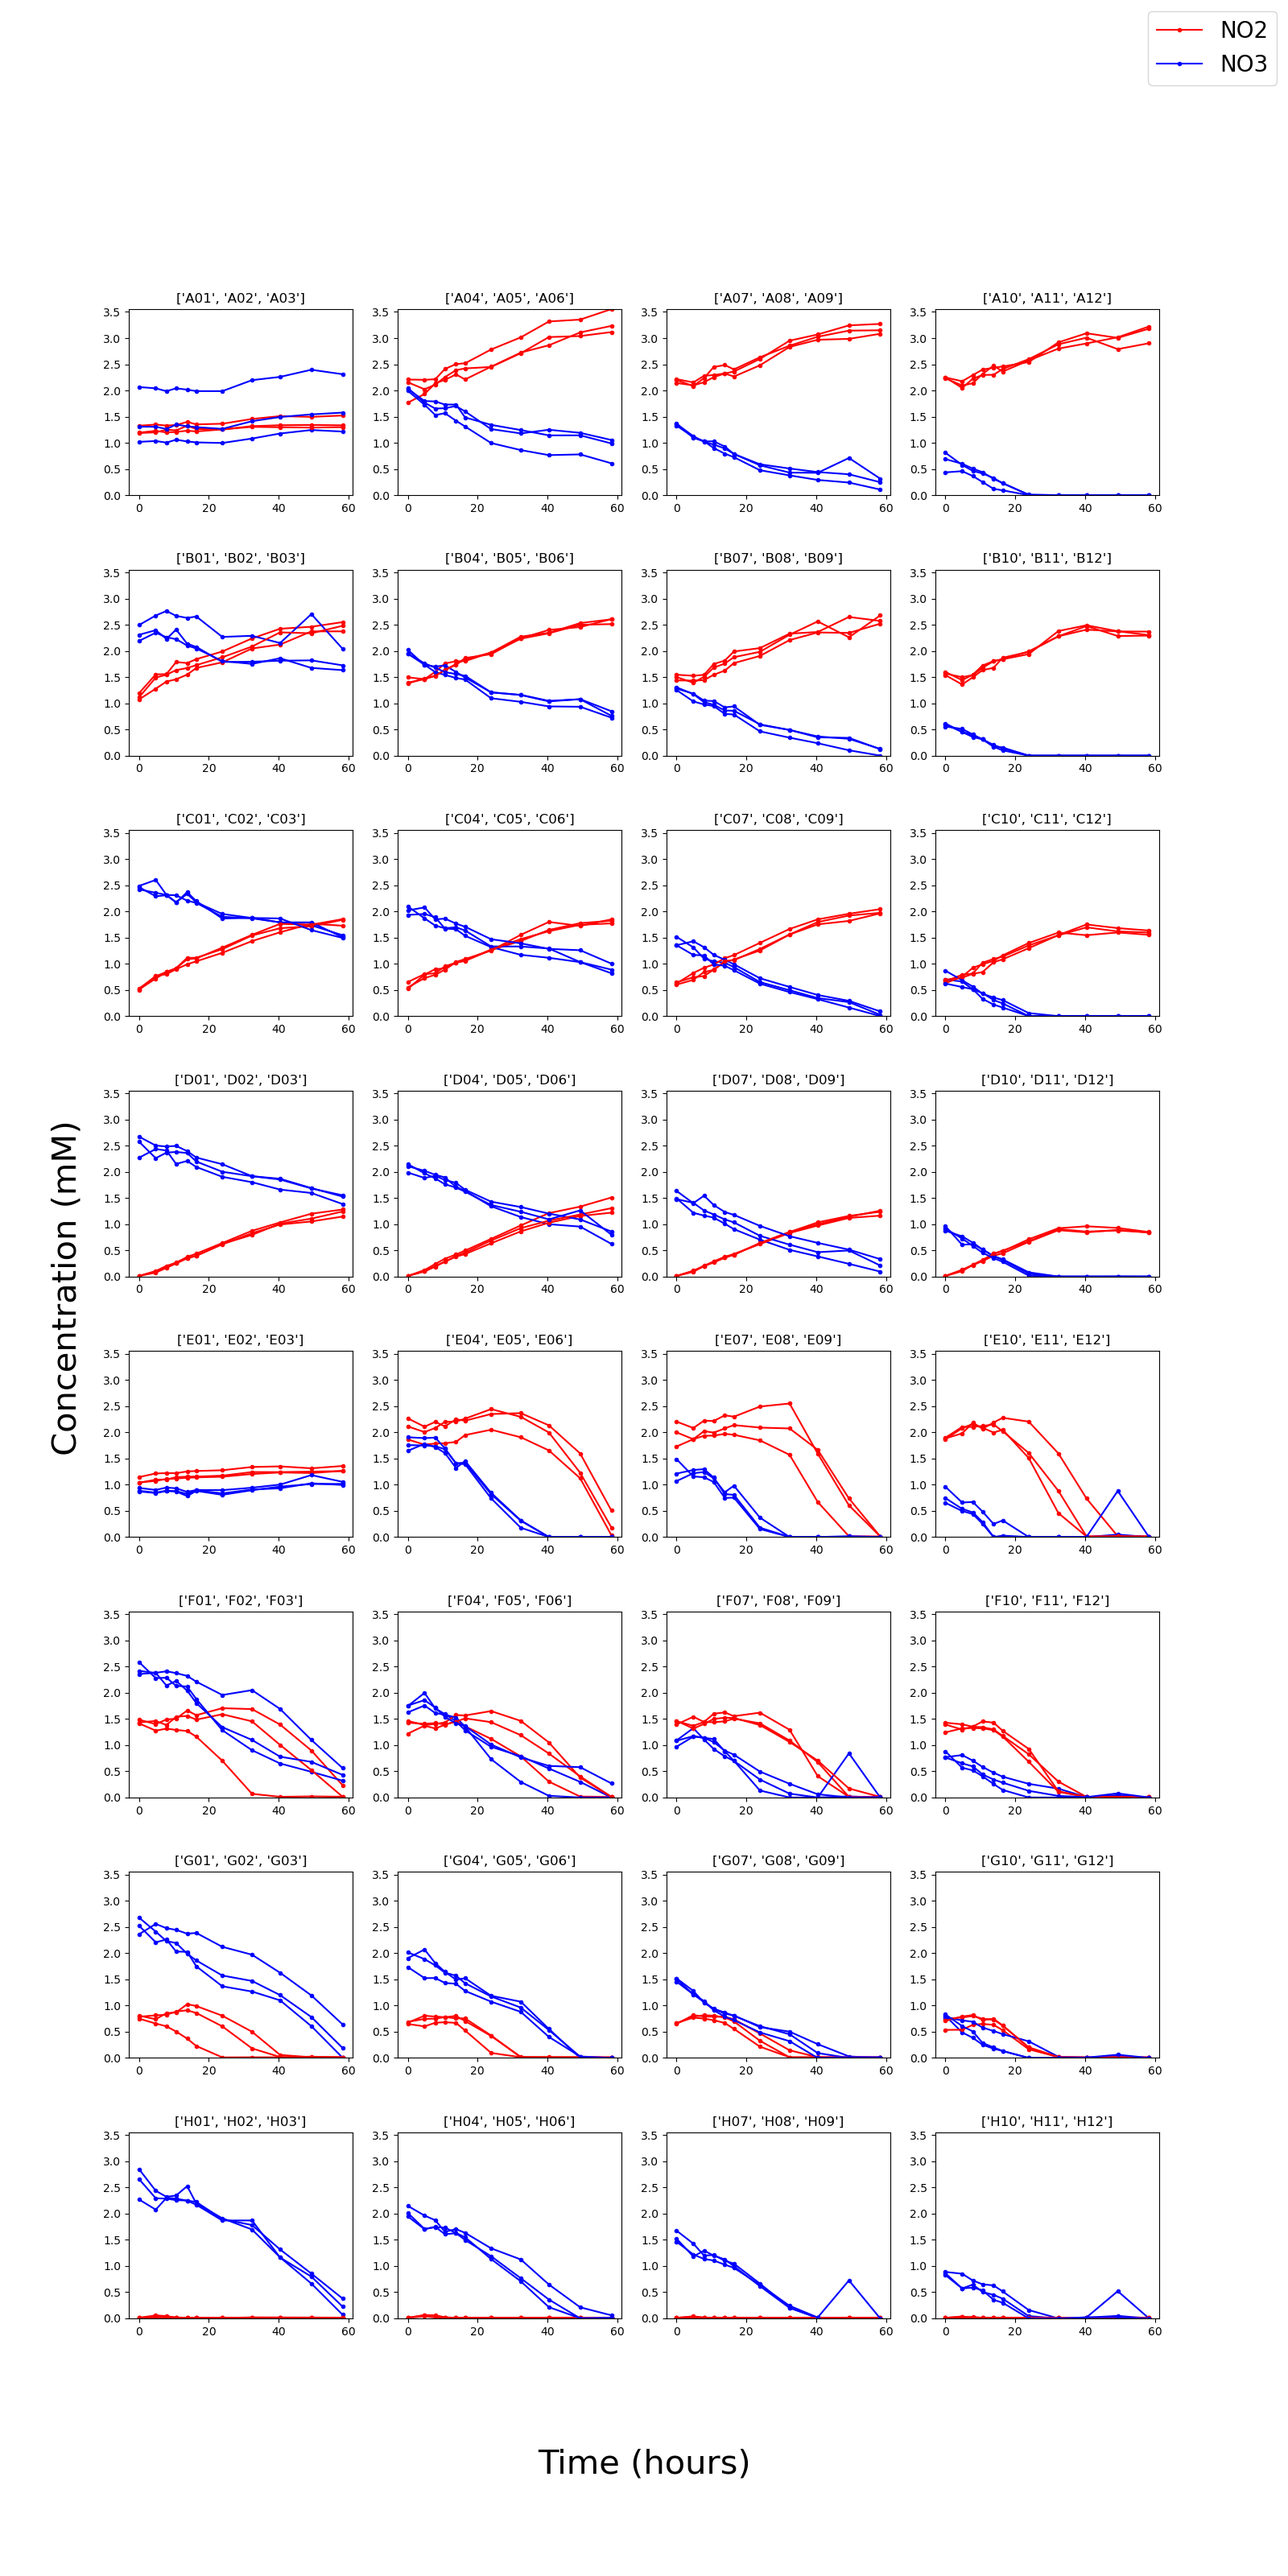
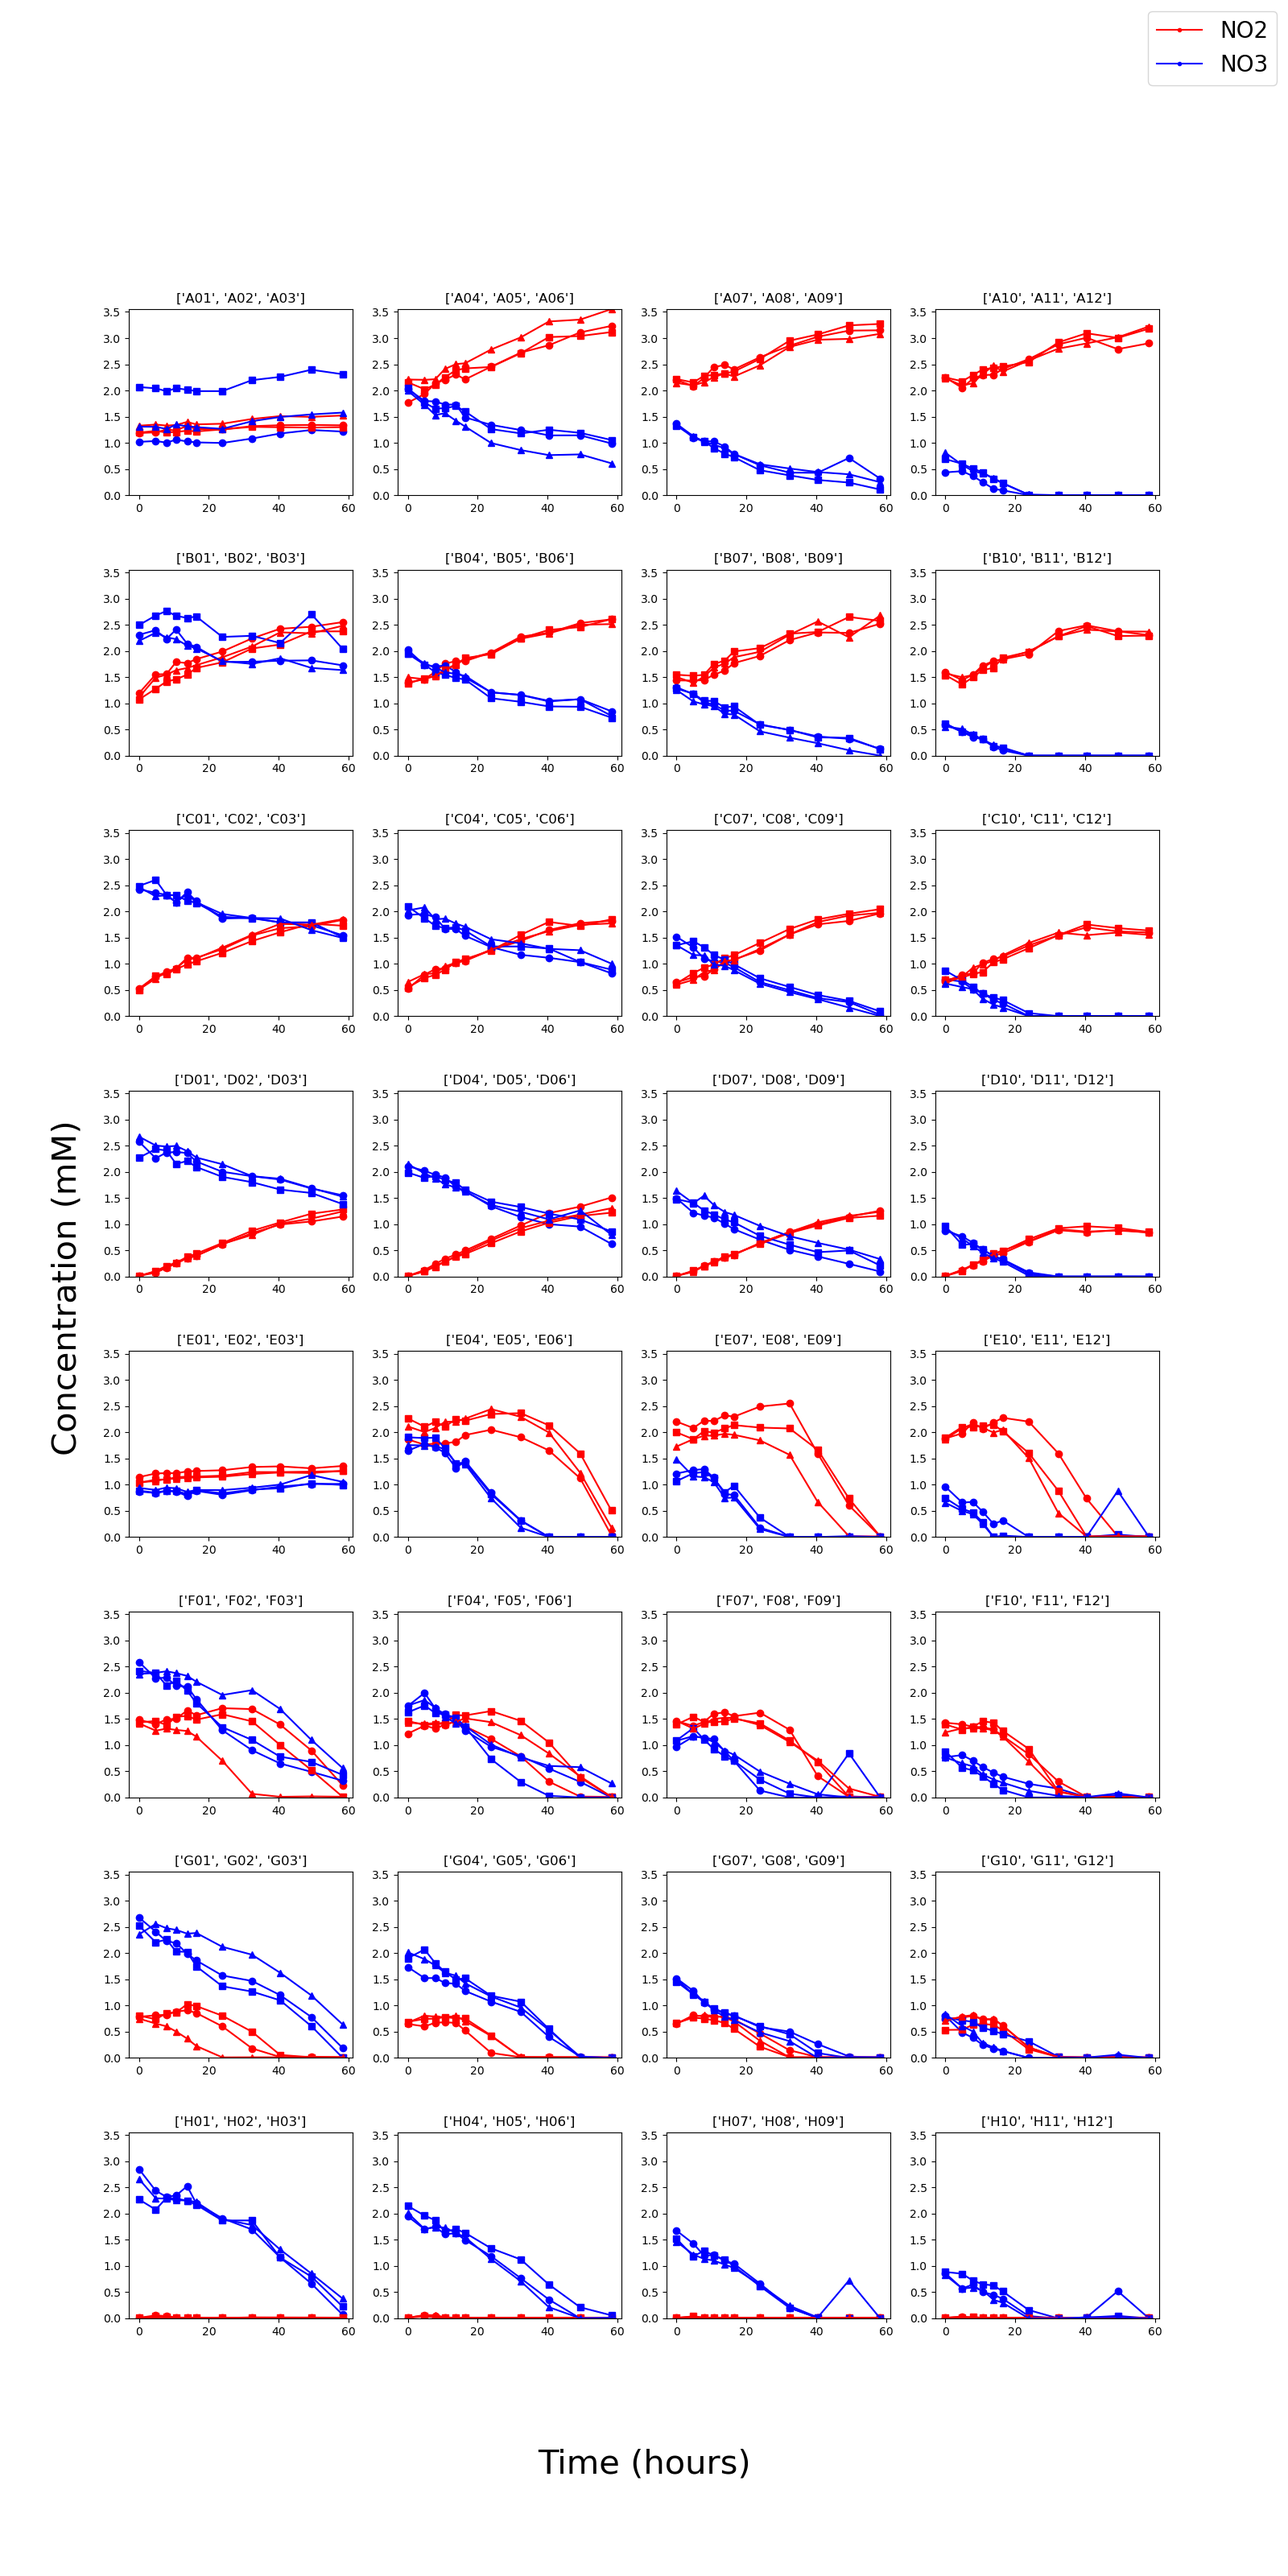
new batch3_all plots

diff --git a/regressors_20260206.py b/regressors_20260206.py
@@ -163,8 +163,10 @@ class PolynomialRegressor:
     def _choose_columns_for_regression(
             self,
             row_label: str,
-            epsilon: float = 0.05
+            mask: Optional[List[int]] = None,
+            epsilon: float = 0.02
     ):
+        
         indices_for_no3_fit = np.where(self.no3_cons_df.loc[row_label].values.astype(float) < self.no3_total_cons[row_label] - epsilon)[0].tolist()            
         poly_deg_no3 = self.poly_deg_no3
         if 0 < len(indices_for_no3_fit) < 3:
@@ -183,14 +185,18 @@ class PolynomialRegressor:
             indices_for_no2_fit = [0]
             poly_deg_no2 = 0
         
+        if mask is not None:
+            indices_for_no2_fit = [idx for idx in indices_for_no2_fit if idx not in mask]
+            indices_for_no3_fit = [idx for idx in indices_for_no3_fit if idx not in mask]
         return indices_for_no2_fit, poly_deg_no2, indices_for_no3_fit, poly_deg_no3
     
     def fit_for_row(
             self,
             row_label: str,
+            mask: Optional[List[int]] = None,
             show_plot: bool = False
     ):
-        indices_for_no2_fit, poly_deg_no2, indices_for_no3_fit, poly_deg_no3 = self._choose_columns_for_regression(row_label)
+        indices_for_no2_fit, poly_deg_no2, indices_for_no3_fit, poly_deg_no3 = self._choose_columns_for_regression(row_label, mask)
         x_no2 = self.time[indices_for_no2_fit].flatten()
         no2_cons = self.no2_cons_df.loc[row_label].values.astype(float)[indices_for_no2_fit].flatten()
         x_no3 = self.time[indices_for_no3_fit].flatten()
@@ -261,12 +267,17 @@ class PolynomialRegressor:
     def fit_for_selected_rows(
             self,
             row_labels: List[str],
+            masks: Optional[Dict[str, List[int]]] = None,
             output_fn: Optional[str] = None,
             save_plot: bool = False
     ):
         regression_results = {}
         for row_label in row_labels:
-            no2_fit, no3_fit = self.fit_for_row(row_label)
+            mask = None
+            if masks is not None and row_label in masks:
+                mask = masks[row_label]
+
+            no2_fit, no3_fit = self.fit_for_row(row_label, mask)
             no2_first_rate, no2_second_rate, no3_first_rate, no3_second_rate = self.rates_for_first_and_second_half(row_label, no2_fit, no3_fit)
             regression_results[row_label] = {
                 'NO2 Second Coefficient': no2_fit.coef[-3] if len(no2_fit.coef) > 2 else 0.0,
@@ -407,7 +418,7 @@ class PolynomialRegressor:
 
 if __name__ == "__main__":
     ids = ['4.2.batch1', '4.2.batch2', '4.2.batch3', '4.2.batch4', '4.2.batch5']
-    for id in ids[0:5]:
+    for id in ids[2:3]:
         #time_threshold=20
         # regressor = LinearRegressor(id)
         # result = regressor.fit_for_row('E04', [0, 1, 2, 3], show_plot=True)
@@ -415,15 +426,16 @@ if __name__ == "__main__":
     
         regressor = PolynomialRegressor(id)
         #regressor.fit_for_row('F01', show_plot=True)
-        # rows_chl0 = ['E04', 'E05', 'E06', 'E07', 'E08', 'E09', 'E10', 'E11', 'E12', 'F01', 'F02', 'F03', 'F04', 'F05', 'F06', 'F07', 'F08', 'F09', 'F10', 'F11', 'F12', 'G01', 'G02', 'G03', 'G04', 'G05', 'G06', 'G07', 'G08', 'G09', 'G10', 'G11', 'G12', 'H01', 'H02', 'H03', 'H04', 'H05', 'H06', 'H07', 'H08', 'H09', 'H10', 'H11', 'H12']
-        # regression_results_df = regressor.fit_for_selected_rows(row_labels=rows_chl0, output_fn=f'{id}.chl0_polynomial_regression_results')
-        # regressor.consumption_plot_for_selected_rows(row_labels=rows_chl0, regression_results_df=regression_results_df, output_fn=f'{id}.chl0_polynomial_regression_plots')
-        regressor.heatmaps_for_selected_columns(
-            input_fn=f'{id}.chl0_polynomial_regression_results',
-            col_labels=['NO2 Second Coefficient', 'NO3 Second Coefficient'],
-            output_fn=f'{id}.chl0',
-            conv_factor=1000,
-            show_plot=False
-        )
+        rows_chl0 = ['E04', 'E05', 'E06', 'E07', 'E08', 'E09', 'E10', 'E11', 'E12', 'F01', 'F02', 'F03', 'F04', 'F05', 'F06', 'F07', 'F08', 'F09', 'F10', 'F11', 'F12', 'G01', 'G02', 'G03', 'G04', 'G05', 'G06', 'G07', 'G08', 'G09', 'G10', 'G11', 'G12', 'H01', 'H02', 'H03', 'H04', 'H05', 'H06', 'H07', 'H08', 'H09', 'H10', 'H11', 'H12']
+        masks_batch3 = 
+        regression_results_df = regressor.fit_for_selected_rows(row_labels=rows_chl0, output_fn=f'{id}.chl0_polynomial_regression_results')
+        regressor.consumption_plot_for_selected_rows(row_labels=rows_chl0, regression_results_df=regression_results_df, output_fn=f'{id}.chl0_polynomial_regression_plots')
+        # regressor.heatmaps_for_selected_columns(
+        #     input_fn=f'{id}.chl0_polynomial_regression_results',
+        #     col_labels=['NO2 Second Coefficient', 'NO3 Second Coefficient'],
+        #     output_fn=f'{id}.chl0',
+        #     conv_factor=1000,
+        #     show_plot=False
+        # )
         
         

diff --git a/absorbance_to_concentration_20260204.py b/absorbance_to_concentration_20260204.py
@@ -89,11 +89,14 @@ def create_figure(times, no2_data, no3_data, rows_chunk, filename, figure_index=
     for i in range(0, len(rows_chunk), num_of_replicates):
         if i // num_of_replicates < len(axes):  # Ensure we don't exceed the number of subplots
             ax = axes[i // num_of_replicates]
+            marker_styles = ['o', 's', '^']
+
             for j in range(num_of_replicates):
                 if i + j < len(rows_chunk):
                     row = rows_chunk[i + j]
-                    ax.plot(times, no2_data.loc[row], 'r.-', label='NO2')
-                    ax.plot(times, no3_data.loc[row], 'b.-', label='NO3')
+                    marker = marker_styles[j]
+                    ax.plot(times, no2_data.loc[row], color='r', marker=marker, linestyle='-', label='NO2')
+                    ax.plot(times, no3_data.loc[row], color='b', marker=marker, linestyle='-', label='NO3')
                     if nh4_data is not None:
                         ax.plot(times, nh4_data.loc[row], 'g.-', label='NH4')
             ax.set_title(f'{rows_chunk[i:i+num_of_replicates]}')
@@ -197,7 +200,7 @@ datetime_arrays = [
 
 ################################################################################################################
 ################################################################################################################
-for i in [0, 1, 3, 4]:       # batch number - 1
+for i in [2]:       # batch number - 1
     exp_num = exp_nums[i]
     date = dates[i]
     id = ids[i]
@@ -211,9 +214,9 @@ for i in [0, 1, 3, 4]:       # batch number - 1
     [no2_conc1, no3_conc1] = no2_no3_abs_to_conc(date, exp_num, id)
     no2_conc = pd.concat([no2_conc1], axis=1)
     no3_conc = pd.concat([no3_conc1], axis=1)
-    # # For batch 3 data, multiply column 4 (index 4) by 24/15 for rows E01-E12
-    # no2_conc.loc['E01':'E12', 4] *= 24/15
-    # no3_conc.loc['E01':'E12', 4] *= 24/15
+    # For batch 3 data, multiply column 4 (index 4) by 24/15 for rows E01-E12
+    no2_conc.loc['E01':'E12', 4] *= 24/15
+    no3_conc.loc['E01':'E12', 4] *= 24/15
 
     no2_conc.columns = times
     no3_conc.columns = times
